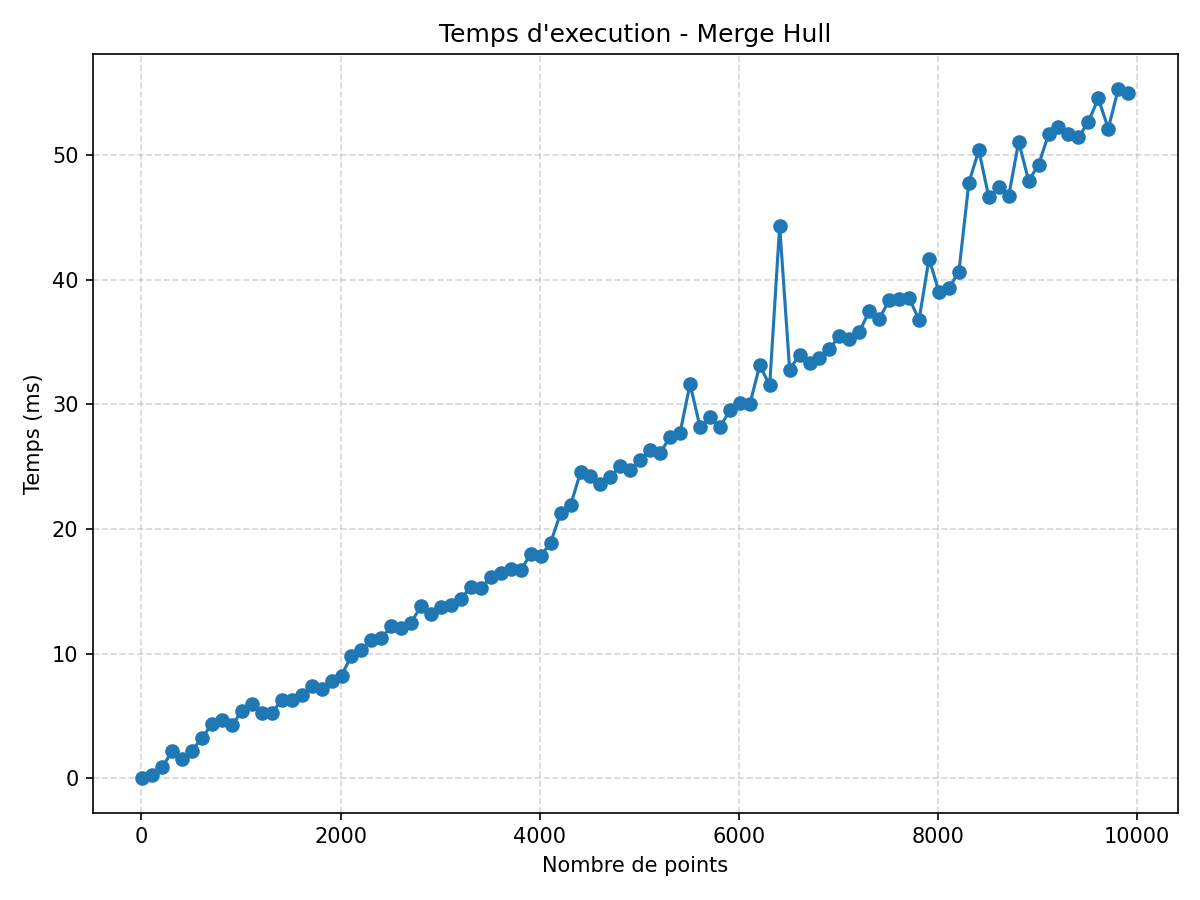
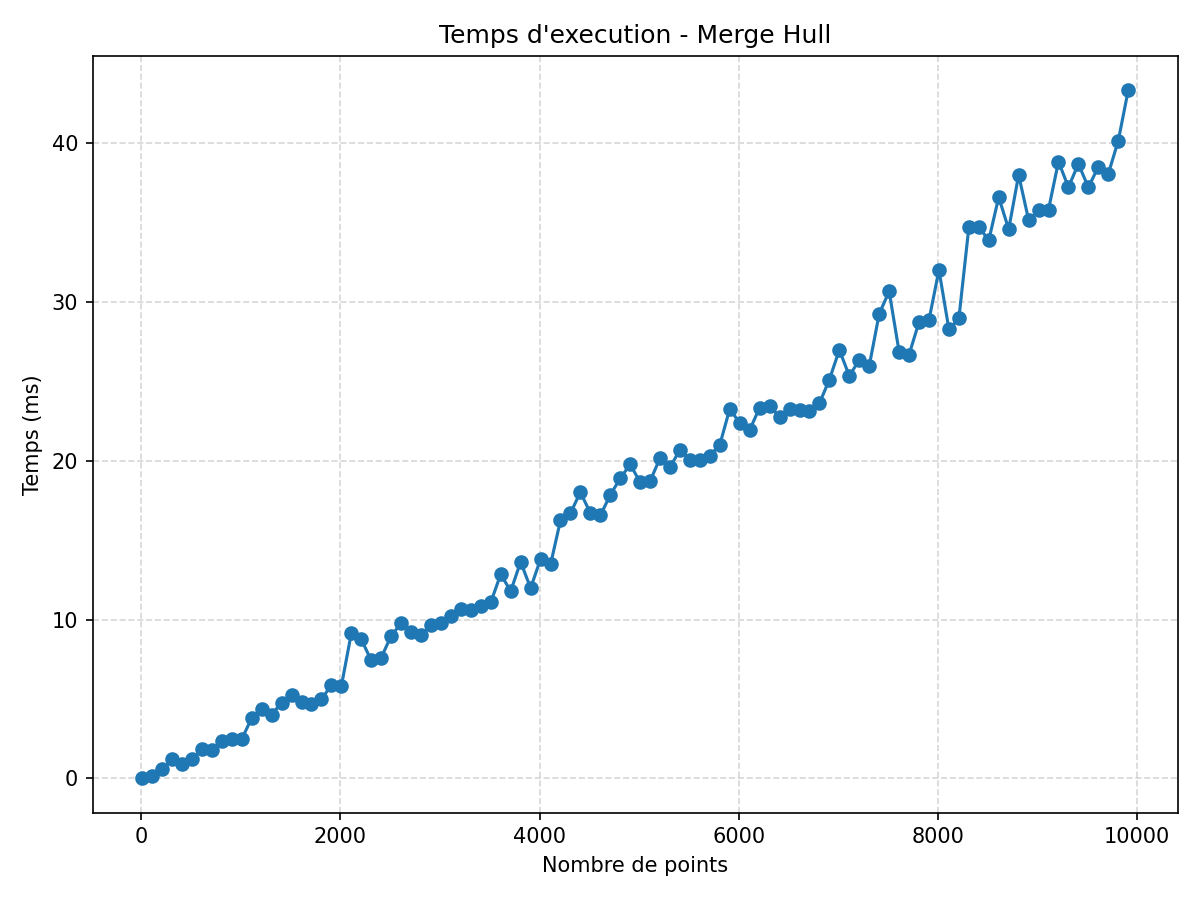
changes

diff --git a/algorithms/preparata_hong.py b/algorithms/preparata_hong.py
@@ -1,8 +1,154 @@
-"""Enveloppe convexes de Preparata-Hong via la variante Merge Hull."""
+"""Algorithme de Preparata-Hong avec fusion par tangentes."""
 
-from algorithms.mergehull import merge_hull
+from math import fsum
+
+from algorithms.monotone import enveloppe_monotone
+from utils import area_signed
+
+_EPS = 1e-12
 
 
-def preparata_hong(points):
-    """Suit Merge Hull mais abaisse le seuil pour equilibrer profondeur et cout."""
-    return merge_hull(points, seuil=32)
+def preparata_hong(points, seuil=32):
+    """
+    Calcule l'enveloppe convexe par l'algorithme Preparata-Hong.
+
+    Complexite temporelle: T(n) = 2T(n/2) + O(n) => O(n log n) avec seuil constant.
+    Complexite spatiale: O(n) pour stocker les sous-coques et pour la recursion.
+    """
+    pts = sorted({(float(p[0]), float(p[1])) for p in points})
+    if len(pts) <= 1:
+        return pts
+    if len(pts) <= seuil:
+        return enveloppe_monotone(pts)
+
+    hull = _divide(pts, seuil)
+    if len(hull) > 2 and area_signed(hull) < 0:
+        # Assure une sortie en sens anti-horaire quel que soit le chemin recursif.
+        hull.reverse()
+    return hull
+
+
+def _divide(pts, seuil):
+    if len(pts) <= seuil:
+        return enveloppe_monotone(pts)  # Cas de base: traitement lineaire par Monotone.
+
+    mid = len(pts) // 2
+    left = _divide(pts[:mid], seuil)
+    right = _divide(pts[mid:], seuil)
+    return _merge(left, right)  # Fusion des deux enveloppes partielles.
+
+
+def _merge(left, right):
+    """Fusionne deux enveloppes locales en une coque globale via tangentes communes."""
+    if not left:
+        return right[:]
+    if not right:
+        return left[:]
+    if len(left) <= 2 or len(right) <= 2:
+        return enveloppe_monotone(left + right)
+    if abs(area_signed(left)) <= _EPS or abs(area_signed(right)) <= _EPS:
+        return enveloppe_monotone(left + right)
+
+    if len(left) > 2 and area_signed(left) < 0:
+        # Garantit une orientation anti-horaire avant de chercher les tangentes.
+        left = list(reversed(left))
+    if len(right) > 2 and area_signed(right) < 0:
+        right = list(reversed(right))
+
+    ui, uj = _upper_tangent(left, right)
+    li, lj = _lower_tangent(left, right)
+
+    merged = []
+
+    # Ajoute les sommets de la coque gauche entre les tangentes (sens direct CCW).
+    idx = ui
+    merged.append(left[idx])
+    while idx != li:
+        idx = (idx + 1) % len(left)
+        merged.append(left[idx])
+
+    # Ajoute la coque droite de la tangente basse vers la tangente haute.
+    idx = lj
+    if not merged or right[idx] != merged[-1]:
+        merged.append(right[idx])
+    while idx != uj:
+        idx = (idx + 1) % len(right)
+        if right[idx] != merged[-1]:
+            merged.append(right[idx])
+
+    if len(merged) > 2 and area_signed(merged) < 0:
+        merged.reverse()
+    return merged
+
+
+def _orient(a, b, c):
+    """Determinant signe de (a,b,c); >0 pour virage gauche, <0 pour virage droit."""
+    ax = b[0] - a[0]
+    ay = b[1] - a[1]
+    bx = c[0] - a[0]
+    by = c[1] - a[1]
+    return fsum((ax * by, -ay * bx))
+
+
+def _upper_tangent(left, right):
+    """Calcule la tangente superieure commune aux deux polygones convexes."""
+    return _tangent(left, right, upper=True)
+
+
+def _lower_tangent(left, right):
+    """Calcule la tangente inferieure commune aux deux polygones convexes."""
+    return _tangent(left, right, upper=False)
+
+
+def _tangent(left, right, upper):
+    """Balaye circulairement chaque coque jusqu'a stabilisation des tangentes."""
+    i = _rightmost_index(left)
+    j = _leftmost_index(right)
+    n = len(left)
+    m = len(right)
+
+    step_left = 1 if upper else -1
+    step_right = -1 if upper else 1
+    target_left = -1 if upper else 1
+    target_right = 1 if upper else -1
+
+    while True:
+        settled = True  # Retient si un ajustement reste necessaire sur l'une des coques.
+        while True:
+            nxt = (i + step_left) % n
+            # Si l'orientation indique que gauche[nxt] est encore "hors" de la tangente,
+            # on deplace i pour le reintegrer dans la chaine finale.
+            if _orient_sign(right[j], left[i], left[nxt]) == target_left:
+                i = nxt
+            else:
+                break
+        while True:
+            nxt = (j + step_right) % m
+            # Meme idee cote droit: tant que droite[nxt] reste du mauvais cote,
+            # on fait tourner j pour tendre la tangente.
+            if _orient_sign(left[i], right[j], right[nxt]) == target_right:
+                j = nxt
+                settled = False
+            else:
+                break
+        if settled:
+            break
+    return i, j
+
+
+def _orient_sign(a, b, c):
+    """Renvoie -1, 0 ou 1 selon l'orientation avec tolerance numerique."""
+    val = _orient(a, b, c)
+    if abs(val) <= _EPS:
+        return 0
+    return 1 if val > 0 else -1
+
+
+def _rightmost_index(hull):
+    """Renvoie l'indice du point le plus a droite (x max, puis y max)."""
+    return max(range(len(hull)), key=lambda k: (hull[k][0], hull[k][1]))
+
+
+def _leftmost_index(hull):
+    """Renvoie l'indice du point le plus a gauche (x min, puis y min)."""
+    return min(range(len(hull)), key=lambda k: (hull[k][0], hull[k][1]))
